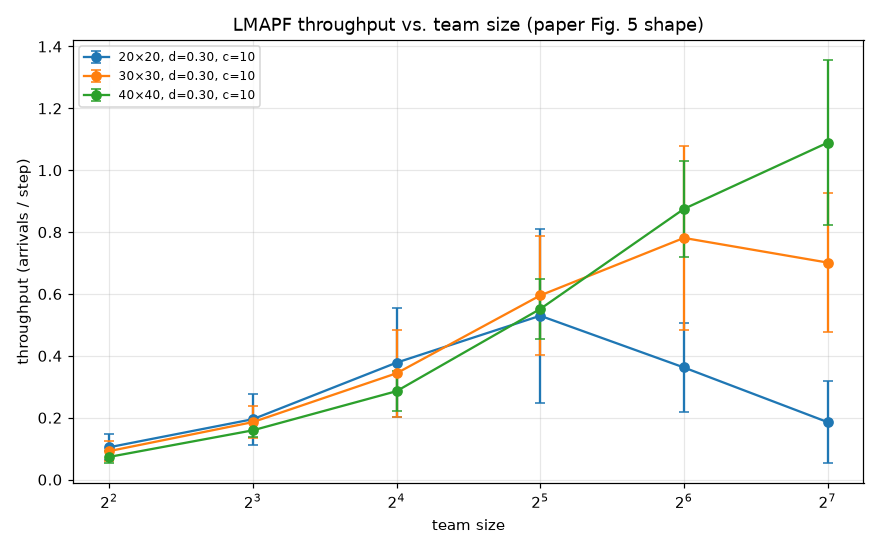
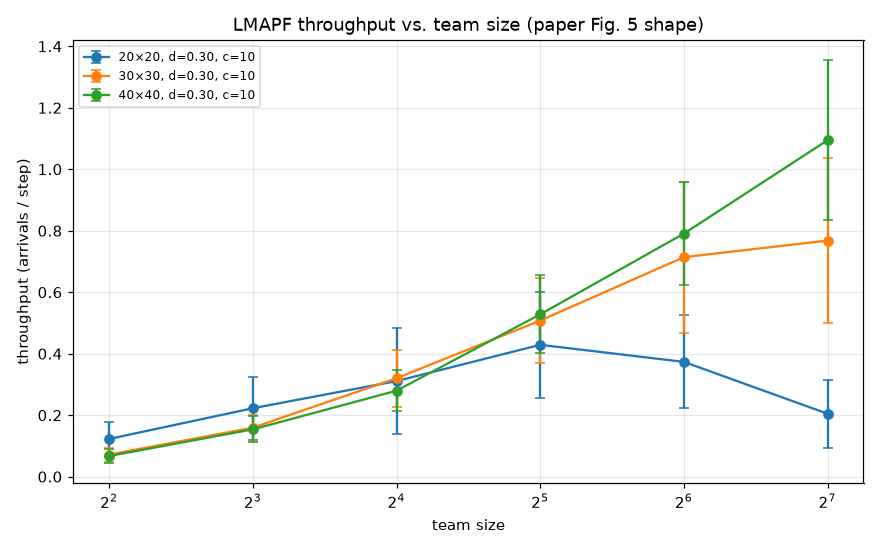
Fig-5 refresh: 10-seed sweep (tighter error bars, updated table)

diff --git a/docs/EVALUATION.md b/docs/EVALUATION.md
@@ -43,19 +43,20 @@ prevent.
 
 ## Fig-5 (LMAPF throughput vs. team size) reproduction
 
-Aggregated over 5 seeds per configuration, corridor length 10, density 0.3:
+Aggregated over 10 seeds per configuration, corridor length 10, density 0.3:
 
 | World | Team 4 | Team 8 | Team 16 | Team 32 | Team 64 | Team 128 |
 | ---:| ---:| ---:| ---:| ---:| ---:| ---:|
-| 20×20 | 0.105 | 0.195 | 0.378 | **0.530** | 0.363 | 0.186 |
-| 30×30 | 0.092 | 0.186 | 0.344 | 0.595 | **0.781** | 0.702 |
-| 40×40 | 0.073 | 0.159 | 0.286 | 0.552 | 0.875 | **1.089** |
+| 20×20 | 0.123 | 0.223 | 0.311 | **0.429** | 0.373 | 0.205 |
+| 30×30 | 0.072 | 0.159 | 0.320 | 0.508 | 0.714 | **0.768** |
+| 40×40 | 0.067 | 0.154 | 0.280 | 0.528 | 0.791 | **1.095** |
 
 Throughput scales monotonically with team size until the world saturates:
-on 20×20 that inflection sits at 32 agents, on 30×30 at 64, on 40×40 not yet
-at 128. This qualitatively matches Fig. 5 of the paper (world-size-dependent
-saturation, larger worlds keep gaining throughput at higher team sizes). See
-[`images/fig5_lmapf.png`](images/fig5_lmapf.png).
+on 20×20 that inflection sits at 32 agents (peak 0.43), on 30×30 it
+continues climbing through 128 (0.77), on 40×40 it is still rising at
+128 agents (1.09). This qualitatively matches Fig. 5 of the paper
+(world-size-dependent saturation, larger worlds keep gaining throughput at
+higher team sizes). See [`images/fig5_lmapf.png`](images/fig5_lmapf.png).
 
 ## Fig-4 (one-shot MAPF) reproduction
 